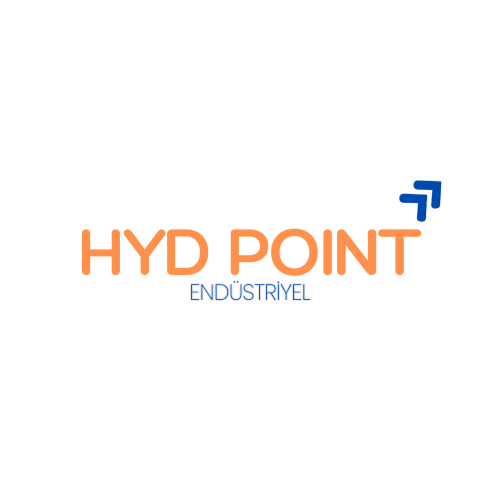
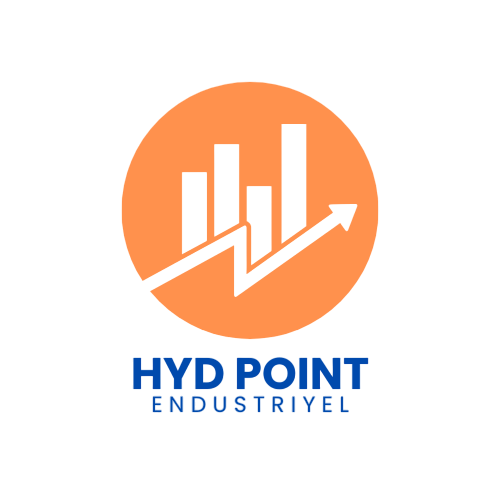
edited

Changed region(s): [[0.15, 0.15, 0.9, 0.84]]

diff --git a/src/pages/MachineList/MachineList.jsx b/src/pages/MachineList/MachineList.jsx
@@ -5,31 +5,31 @@ import crane from "../../assets/malzeme.png";
 
 const machineList = [
   {
-    name: "Excavator Model X",
-    price: 15000,
+    name: "XXXXXXXXXXXXX",
+    price: 0,
     image: excavator,
     aosDelay: "0",
-    type: "Excavator",
-    condition: "New",
-    location: "Istanbul, Turkey",
+    type: "XXXXXXXXXXXXX",
+    condition: "XXXXXXXXXXXXX",
+    location: "Konya, Turkey",
   },
   {
-    name: "Bulldozer Model Y",
-    price: 18000,
+    name: "XXXXXXXXXXXXX",
+    price: 0,
     image: bulldozer,
     aosDelay: "500",
-    type: "Bulldozer",
-    condition: "Used",
-    location: "Ankara, Turkey",
+    type: "XXXXXXXXXXXXX",
+    condition: "XXXXXXXXXXXXX",
+    location: "Konya, Turkey",
   },
   {
-    name: "Crane Model Z",
-    price: 20000,
+    name: "XXXXXXXXXXXXX",
+    price: 0,
     image: crane,
     aosDelay: "1000",
-    type: "Crane",
-    condition: "New",
-    location: "Izmir, Turkey",
+    type: "XXXXXXXXXXXXX",
+    condition: "XXXXXXXXXXXXX",
+    location: "Konya, Turkey",
   },
 ];
 
@@ -37,7 +37,6 @@ const MachineList = () => {
   return (
     <div className="pb-24">
       <div className="container">
-        {/* Heading */}
         <h1
           data-aos="fade-up"
           className="text-3xl sm:text-4xl font-semibold font-serif mb-3"
@@ -45,9 +44,8 @@ const MachineList = () => {
          ÜRÜNLER
         </h1>
         <p data-aos="fade-up" aos-delay="400" className="text-sm pb-10">
-          İhtiyacınız olan makineleri hemen satın alabilir veya satabilirsiniz. Farklı tip ve modellerde makinelerle işlerinizi kolaylaştırın.
+          İhtiyacınız olan makineleri hemen satın alabilirsiniz. Farklı tip ve modellerde makinelerle işlerinizi kolaylaştırın.
         </p>
-        {/* Machine listing */}
         <div>
           <div className="grid grid-cols-1 sm:grid-cols-2 md:grid-cols-3 gap-16">
             {machineList.map((data) => (
@@ -78,7 +76,6 @@ const MachineList = () => {
             ))}
           </div>
         </div>
-        {/* End of machine listing */}
         <div className="grid place-items-center mt-8">
           <button data-aos="fade-up" className="button-outline">
            HEPSİNİ GÖR

diff --git a/src/components/Footer/Footer.jsx b/src/components/Footer/Footer.jsx
@@ -49,7 +49,6 @@ const Footer = () => {
               <FaMobileAlt />
               <p>(0332) 501 10 11</p>
             </div>
-            {/* Social Handles */}
             <div className="flex items-center gap-3 mt-6">
               <a href="#">
                 <FaInstagram className="text-3xl hover:text-primary duration-300" />
@@ -63,7 +62,6 @@ const Footer = () => {
             </div>
           </div>
 
-          {/* Links */}
           <div className="grid grid-cols-2 sm:grid-cols-3 col-span-2 md:pl-10">
             <div>
               <div className="py-8 px-4">
@@ -90,18 +88,24 @@ const Footer = () => {
                   İletişim
                 </h1>
                 <ul className="flex flex-col gap-3">
-                  {FooterLinks.map((link) => (
+                  {[
+                    { title: "info@hydpoint.com", link: "mailto:info@hydpoint.com" },
+                    { title: "(0332) 501 10 11", link: "tel:+905551234567" },
+                  ].map((item) => (
                     <li
-                      key={link.title}
+                      key={item.title}
                       className="cursor-pointer hover:translate-x-1 duration-300 hover:!text-primary space-x-1 text-gray-500 dark:text-gray-200"
                     >
-                      <span>&#11162;</span>
-                      <span>{link.title}</span>
+                      <a href={item.link} className="flex items-center gap-1">
+                        <span>&#11162;</span>
+                        <span>{item.title}</span>
+                      </a>
                     </li>
                   ))}
                 </ul>
               </div>
             </div>
+
 
             <div>
               <div className="py-8 px-4">

diff --git a/src/components/Navbar/Navbar.jsx b/src/components/Navbar/Navbar.jsx
@@ -2,7 +2,7 @@ import React, { useState } from "react";
 import { BiSolidSun, BiSolidMoon } from "react-icons/bi";
 import { HiMenuAlt3, HiMenuAlt1 } from "react-icons/hi";
 import ResponsiveMenu from "./ResponsiveMenu";
-import HYDPOINT from '../../assets/HYDPOINT.png'; // Resmin yolu
+import HYDPOINT from '../../assets/HYDPOINTENDUSTRIYEL.png'; // Resmin yolu
 
 export const Navlinks = [
   {
@@ -35,11 +35,11 @@ const Navbar = ({ theme, setTheme }) => {
   };
 
   return (
-    <div className="relative z-10 shadow-md w-full dark:bg-black dark:text-white duration-300 h-32">
+    <div className="relative z-50 shadow-md w-full dark:bg-black dark:text-white duration-300">
       <div className="container py-1 md:py-0"> 
-        <div className="flex justify-between items-center">
-          <div className="relative ">
-            <img src={HYDPOINT} alt="HYDPOINT" className="w-32 h-32 object-contain" />
+        <div className="flex justify-between items-center p-0">
+          <div className="relative">
+            <img src={HYDPOINT} alt="HYDPOINT" className="w-48 h-16 object-contain" />
           </div>
           <nav className="hidden md:block">
             <ul className="flex items-center gap-8">

diff --git a/src/pages/Hero/Hero.jsx b/src/pages/Hero/Hero.jsx
@@ -2,7 +2,7 @@ import React, { useEffect } from "react";
 import malzeme1 from "../../assets/malzeme.png";
 import malzeme2 from "../../assets/malzeme.png";
 import AOS from "aos";
-import bgImage from "../../assets/fabrika.jpg"; // Resmi import edin
+import bgImage from "../../assets/fabrika.jpg";
 
 const Hero = ({ theme }) => {
   useEffect(() => {
@@ -16,7 +16,6 @@ const Hero = ({ theme }) => {
         alt="Background"
         className="absolute inset-0 w-full h-full object-cover"
       />
-      {/* Karanlık katman ekleyelim */}
       <div className="absolute inset-0 w-full h-full bg-black opacity-50"></div>
 
       <div className="container min-h-[620px] flex relative z-10">
@@ -45,7 +44,7 @@ const Hero = ({ theme }) => {
               data-aos-delay="600"
               className="text-5xl text-white lg:text-7xl font-semibold font-serif drop-shadow-md"
             >
-              HYD POINT PAZARLAMA
+              HYD POINT ENDUSTRIYEL
             </h1>
             <p
               className="text-white text-lg"
